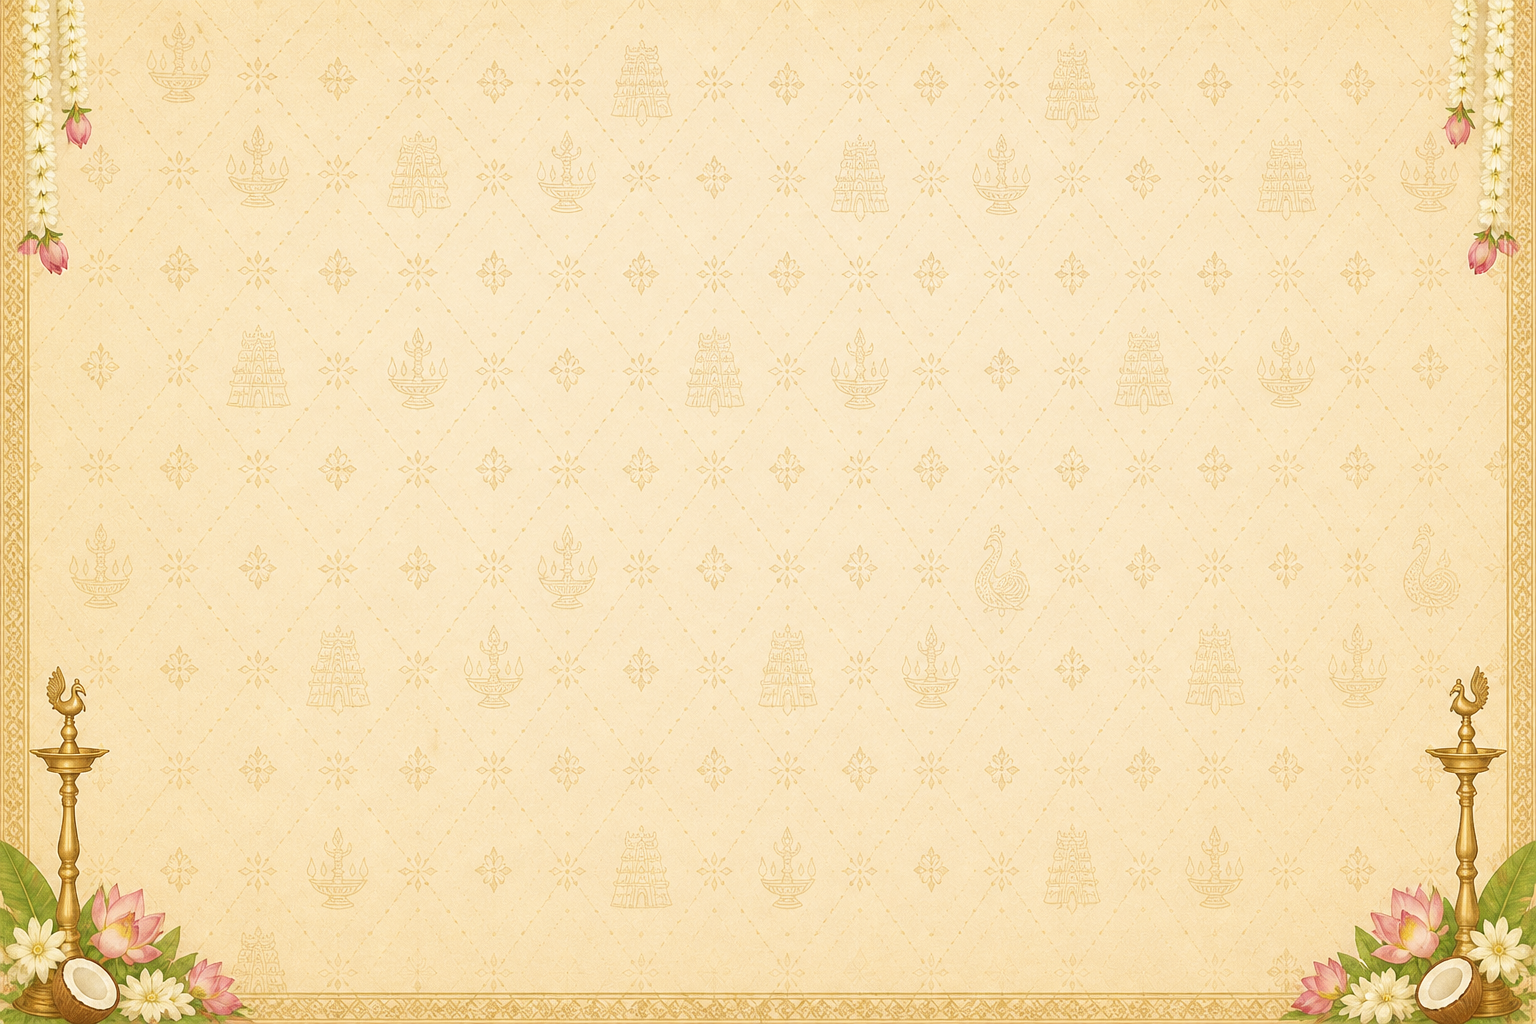
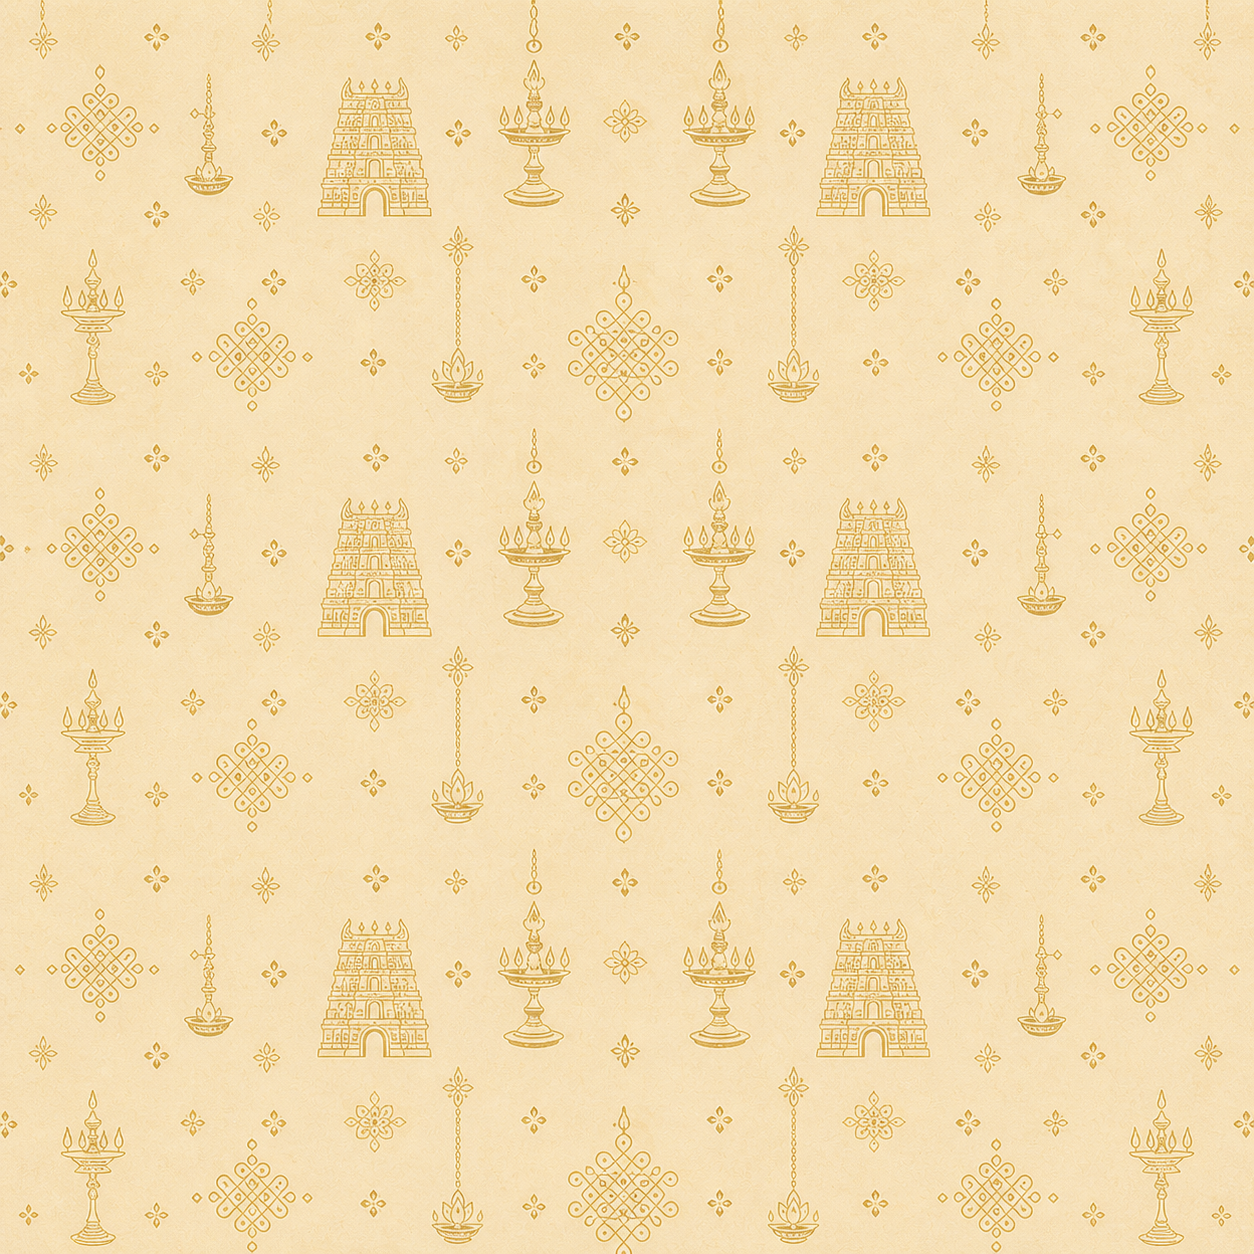
bg change

diff --git a/src/app/wedding-invite/wedding-invite.component.scss b/src/app/wedding-invite/wedding-invite.component.scss
@@ -11,11 +11,11 @@
   width: 100%;
   height: auto;
  --section-bg: 
-  linear-gradient(rgba(244,234,217,0.35), rgba(229,214,194,0.35)),
+  linear-gradient(rgba(244,234,217,0.70), rgba(229,214,194,0.70)),
   url('../../assets/bg.png');
 
 --section-bg-mobile: 
-  linear-gradient(rgba(250,239,227,0.35), rgba(238,220,200,0.35)),
+  linear-gradient(rgba(250,239,227,0.70), rgba(238,220,200,0.70)),
   url('../../assets/bg.png');
 
   background-size: 260px;
@@ -27,6 +27,7 @@ background-position: center;
 .scratch-section,
 .timeline-section,
 .venue-section,
+.gallery-section,
 .closing-section {
   background: var(--section-bg);
 }
